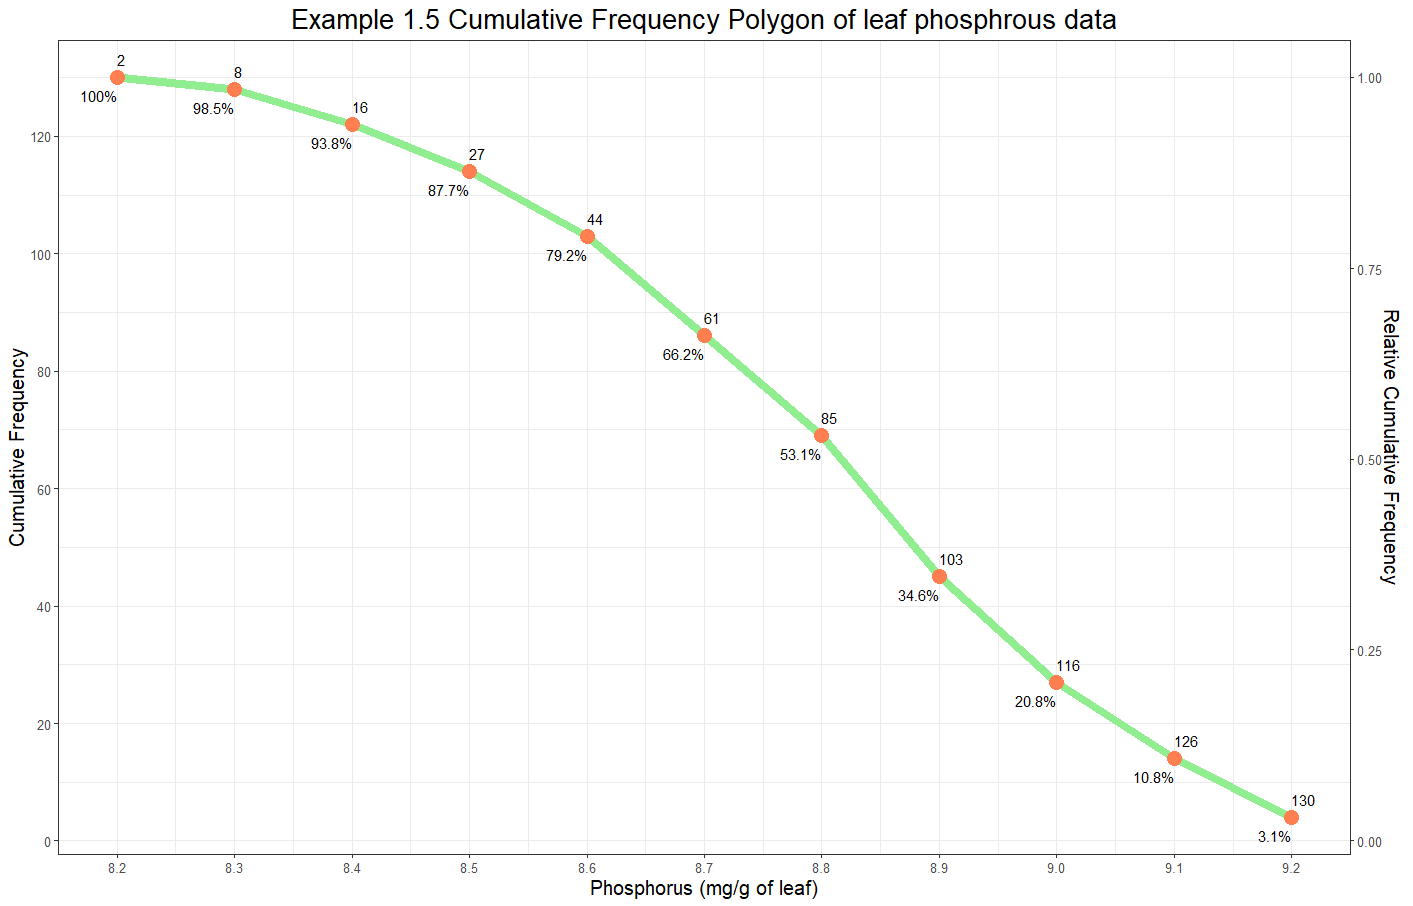
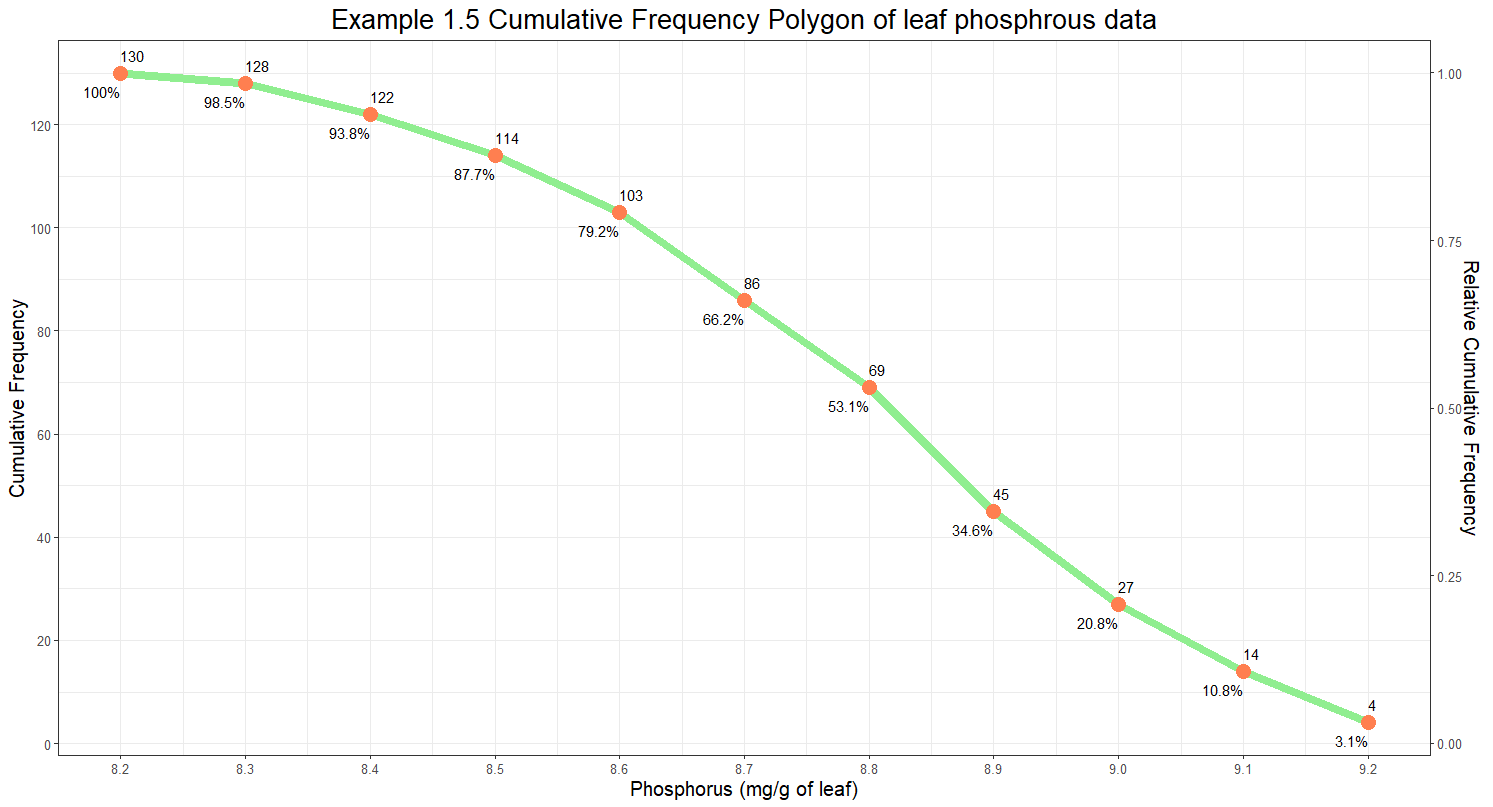
update

diff --git a/study/_posts/2022-03-10-[의학통계학방법론] Ch1. Data Types and Presentation.md b/study/_posts/2022-03-10-[의학통계학방법론] Ch1. Data Types and Presentation.md
@@ -635,7 +635,7 @@ cum1 <- ggplot(ex1_5,aes(x=plt2$phos,y=ex1_5$exam1_5.CumFreq1))+
   theme(axis.text.y=element_text(size=10))+
   theme(axis.title = element_text(size=15))+
   theme(plot.title = element_text(size=20,hjust = 0.5))+
-  geom_text(aes(label=cummulative_frequency),hjust=1,vjust=-1,size=4)+
+  geom_text(aes(label=exam1_5.CumFreq1),hjust=1,vjust=-1,size=4)+
   geom_text(aes(label=paste0(round((exam1_5.CumFreq1/max(exam1_5.CumFreq1))*100,1),"%")),hjust=0.2,vjust=2,size=4,family = "raleway")+
   geom_line(stat="identity",group=1,color="light green",size=3)+
   geom_point(stat="identity",group=1,color="coral",size=5)+
@@ -664,7 +664,7 @@ cum2 <- ggplot(ex1_5,aes(x=plt2$phos,y=exam1_5.CumFreq2))+
   theme(axis.text.y=element_text(size=10))+
   theme(axis.title = element_text(size=15))+
   theme(plot.title = element_text(size=20,hjust = 0.5))+
-  geom_text(aes(label=cummulative_frequency),hjust=0,vjust=-1,size=4)+
+  geom_text(aes(label=exam1_5.CumFreq2),hjust=0,vjust=-1,size=4)+
   geom_text(aes(label=paste0(round(((exam1_5.CumFreq2)/max(exam1_5.CumFreq1))*100,1),"%")),hjust=1,vjust=2,size=4,family = "raleway")+
   geom_line(stat="identity",group=1,color="light green",size=3)+
   geom_point(stat="identity",group=1,color="coral",size=5)+
